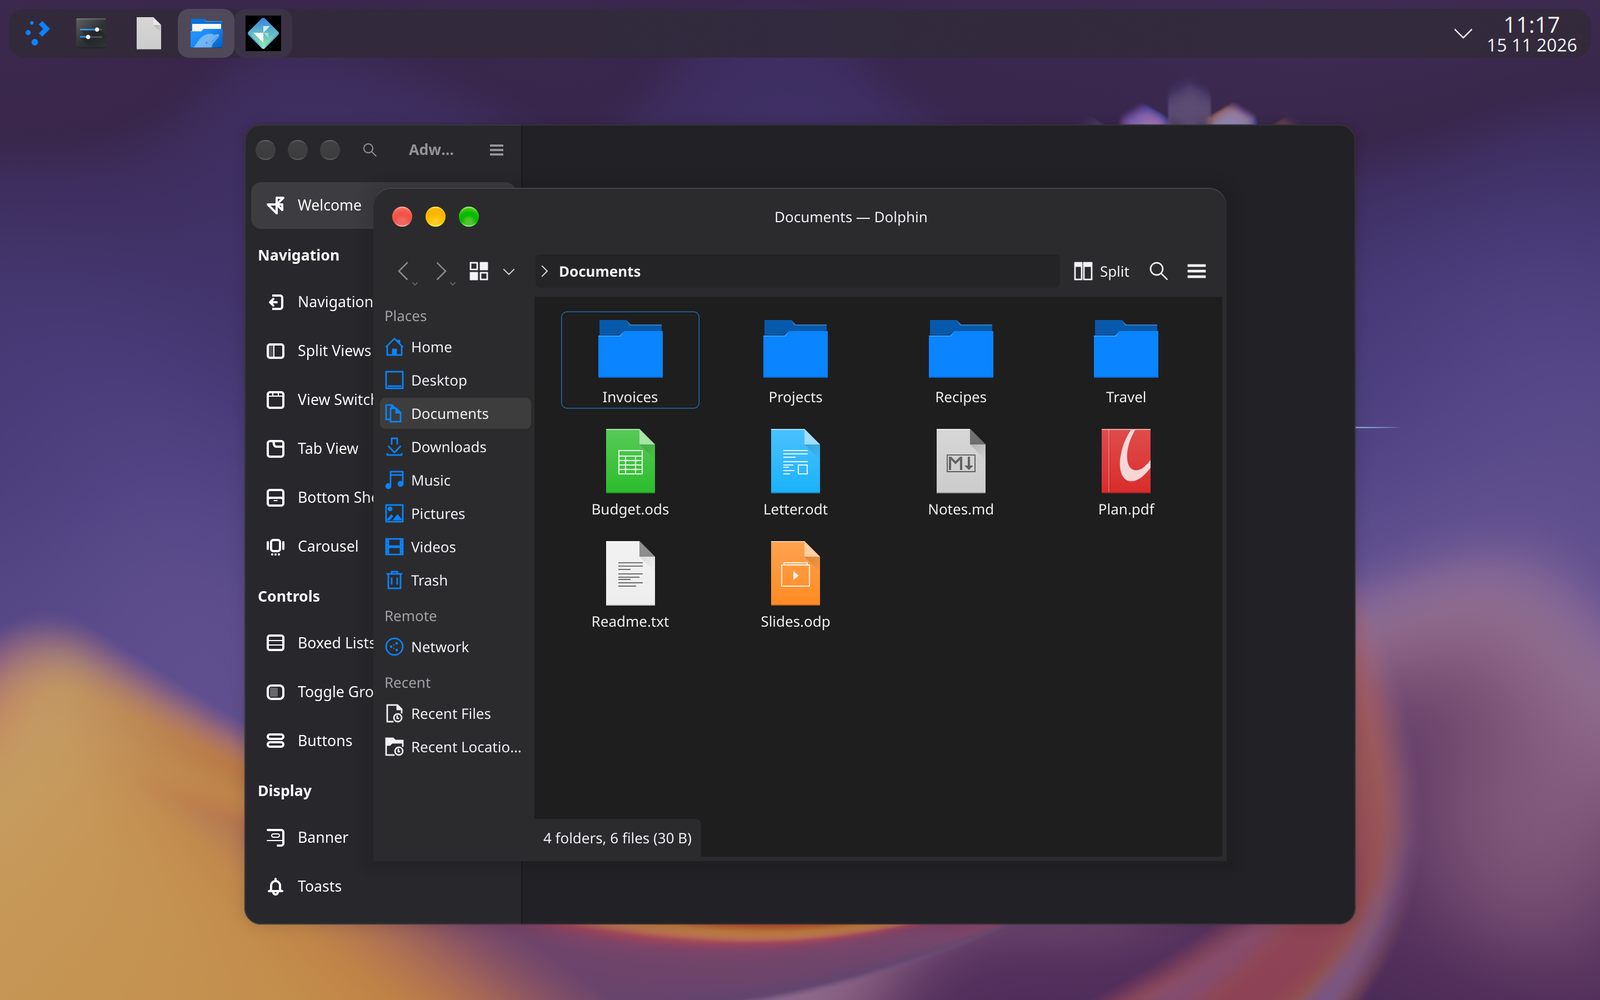
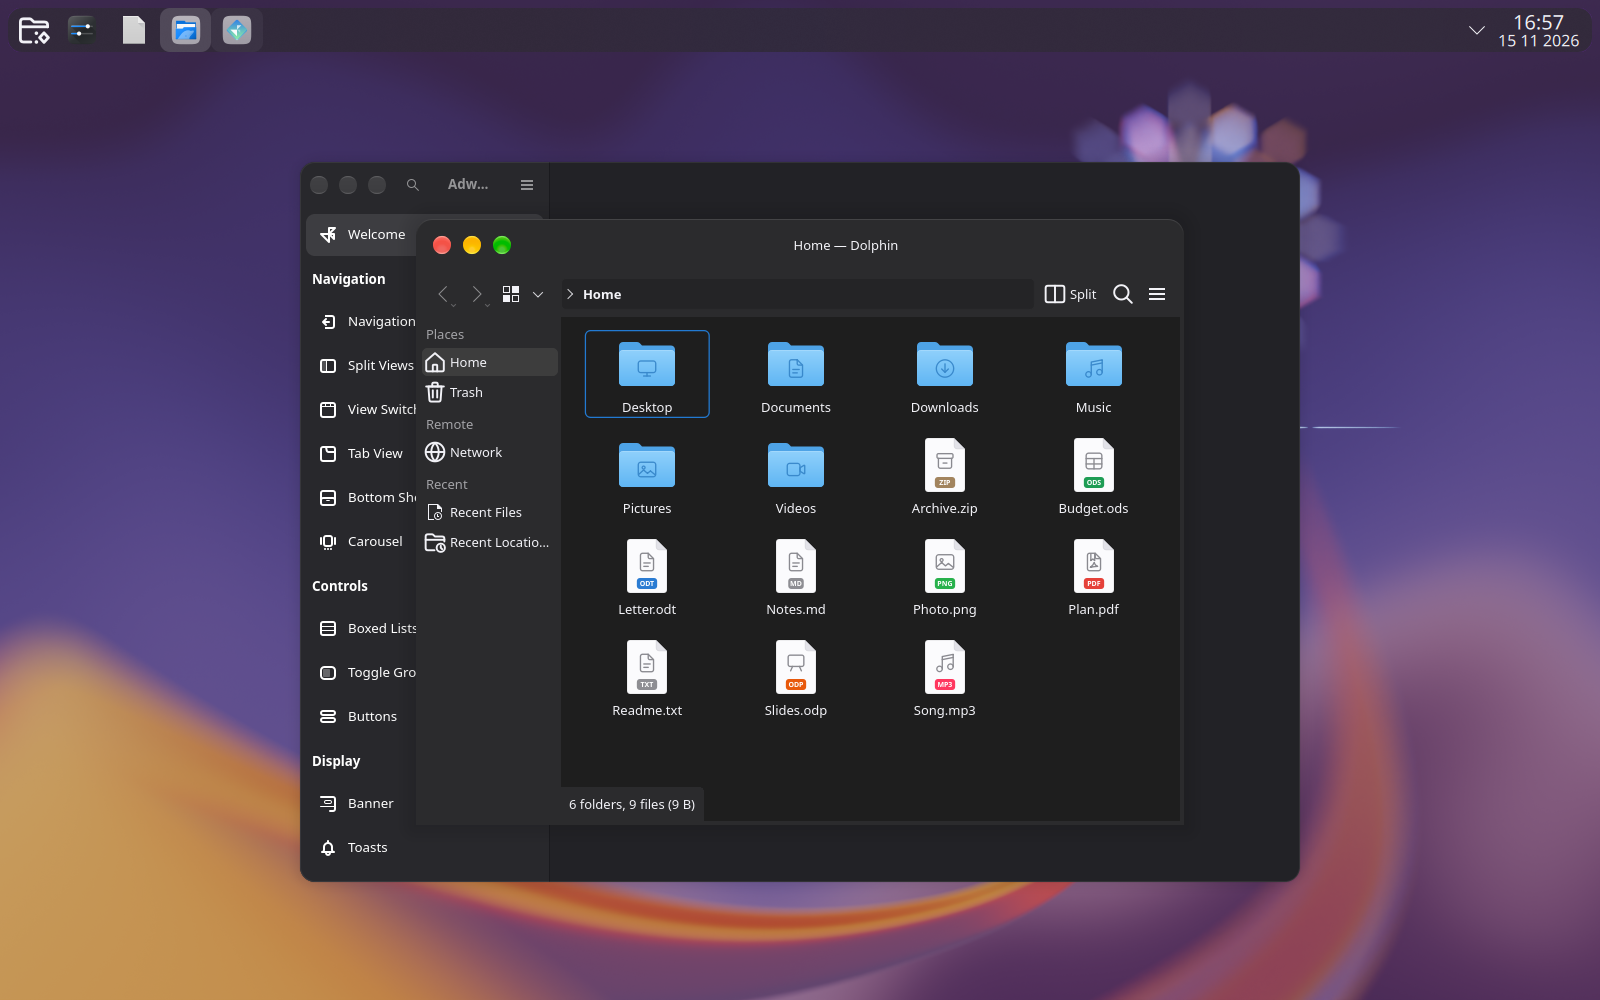
docs: show every part of the theme in the readme

diff --git a/README.md b/README.md
@@ -1,12 +1,38 @@
 # Golden Delicious for KDE Plasma
 
-A lean Plasma 6 theme with the feel of macOS Golden Gate: traffic-light window
-buttons, rounded corners with a soft shadow, a floating translucent top panel
-with soft rounded task highlights, and a dark color scheme with blur.
+A lean Plasma 6 theme with the feel of macOS: traffic-light window buttons,
+rounded corners with a soft shadow, a floating translucent top panel, rounded
+popups, a dark color scheme with blur, and its own icons.
 
 ![Dolphin and a libadwaita app with Golden Delicious](docs/screenshots/overview.png)
 
-![Traffic lights, titlebar and sidebar icons up close](docs/screenshots/titlebar.png)
+## What's in it
+
+**Windows.** Traffic lights on the left with the light and sheen of the Mac
+ones, rounded corners, a soft shadow. libadwaita and GTK apps get the same
+buttons on the same side.
+
+![Traffic lights, sidebar, folders and file types up close](docs/screenshots/titlebar.png)
+
+**Icons.** About 2000 line icons of our own for actions, places, devices and
+status, under Breeze's names, so every KDE app picks them up. In the panel the
+wifi and the battery look like the Mac menu bar. From 32 px up folders turn
+into blue Mac folders with the place's symbol embossed (and the tag colours for
+`folder-red` and friends), and files into white pages with a coloured label
+for their type.
+
+![Line icons, folders and file types](docs/screenshots/icons.png)
+
+**App icons on tiles.** App icons keep their own design but sit on a light
+macOS squircle tile; one that is already a filled square is masked to the
+squircle instead. The originals stay untouched (optional, see Install).
+
+![KRunner with app icons on tiles in a rounded popup](docs/screenshots/krunner.png)
+
+**Plasma.** A floating top panel, popups as round as the windows, and switches
+and sliders with a knob in the accent colour, lit like the traffic lights.
+
+![Switches and sliders](docs/screenshots/controls.png)
 
 ## Install
 
@@ -18,18 +44,20 @@ Run inside a Plasma session:
 ```
 
 `--layout` drops your current panel setup and pinned launchers. Log out and
-back in afterwards so every app picks the theme up.
+back in afterwards so every app, the panel and the icon caches pick the theme
+up.
+
+On the first install the script asks whether to set up the app icon tiles: a
+small user service (`golden-delicious-tiles`) draws them into
+`~/.local/share/icons/golden-delicious-apps` and runs again whenever apps or
+Flatpaks come or go. Once set up, later installs update it without asking.
+`--tiles` or `--no-tiles` answer the question up front. Masking a square
+SVG-only app icon needs `rsvg-convert` or ImageMagick; without them such an icon
+goes on a tile too.
 
 GTK apps follow too: Breeze GTK takes the colors and window buttons from KDE,
-and `gtk/golden-delicious.css` adds the traffic lights for libadwaita apps and hides
-separators.
-
-App icons keep their design but sit on a macOS squircle tile; an icon that is
-already a filled square gets masked to the squircle instead. The user service
-`golden-delicious-tiles` draws them into `~/.local/share/icons/golden-delicious-apps`
-and runs again whenever apps or Flatpaks come or go. The originals stay
-untouched. Masking a square SVG-only icon needs `rsvg-convert` or ImageMagick;
-without them such an icon goes on a tile too.
+and `gtk/golden-delicious.css` adds the traffic lights for libadwaita apps and
+hides separators. Flatpak apps get read access to that config.
 
 ## Backups
 
@@ -52,6 +80,12 @@ A restore backs up the current state first, so it can be undone the same way.
 ./uninstall.sh            # back to Breeze Dark, Breeze window buttons
 ./uninstall.sh --layout   # also reset the panels (if you installed with --layout)
 ```
+
+This removes the theme's files and the tile service, puts the window buttons
+back on the right (KDE and GTK), drops our GTK CSS and takes back the Flatpak
+access install.sh gave. Your backups stay. The Breeze GTK theme for Flatpak
+apps stays installed; `flatpak uninstall --user org.gtk.Gtk3theme.Breeze`
+removes it.
 
 ## Develop
 
